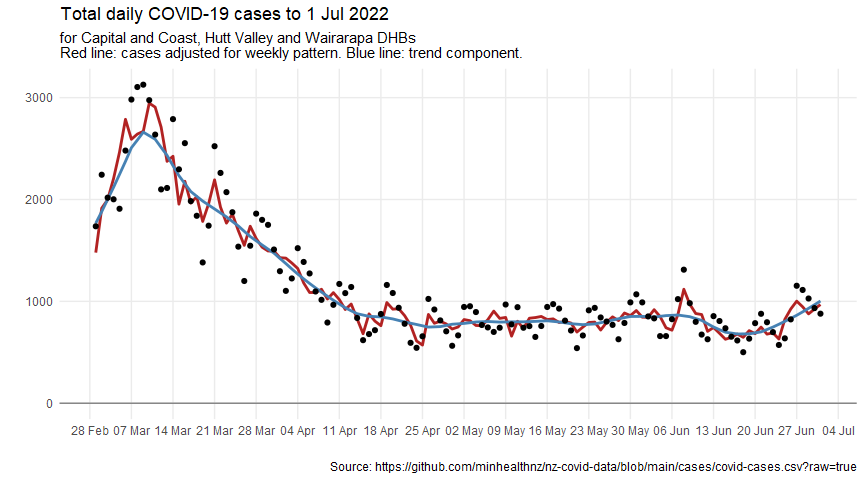
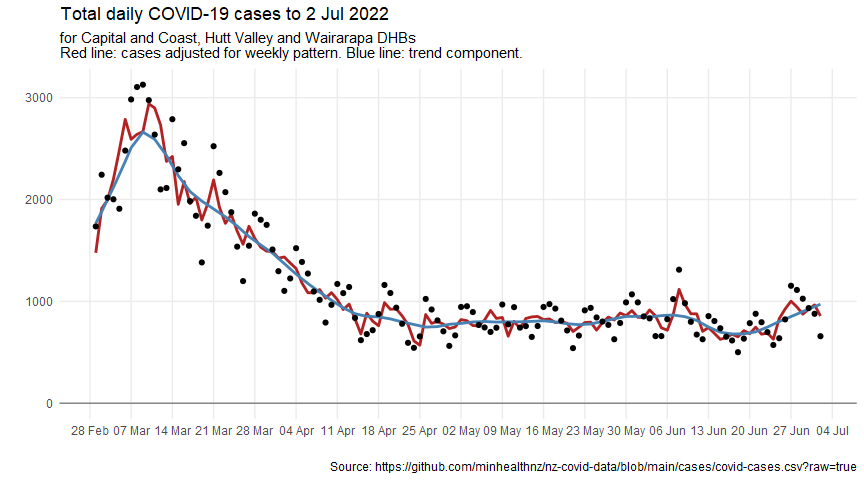
update for 20220703

Changed region(s): [[0.125, 0.2188, 0.9688, 0.75], [0.2188, 0.875, 1.0, 0.9062], [0.3438, 0.0, 0.375, 0.0312]]

diff --git a/covid-post-peak-analysis.md b/covid-post-peak-analysis.md
@@ -30,7 +30,7 @@ cases_df <- read_csv(case_data_url) %>%
 
     ## Warning: One or more parsing issues, see `problems()` for details
 
-    ## Rows: 1352688 Columns: 7
+    ## Rows: 1357862 Columns: 7
 
     ## -- Column specification --------------------------------------------------------
     ## Delimiter: ","
@@ -49,7 +49,7 @@ cases_by_dhb_df <- cases_df %>%
   count(report_date, dhb, case_status)
 ```
 
-## Wellington figures up to 1 Jul 2022
+## Wellington figures up to 2 Jul 2022
 
 Including Hutt and Wairarapa as well as CCDHB.
 
